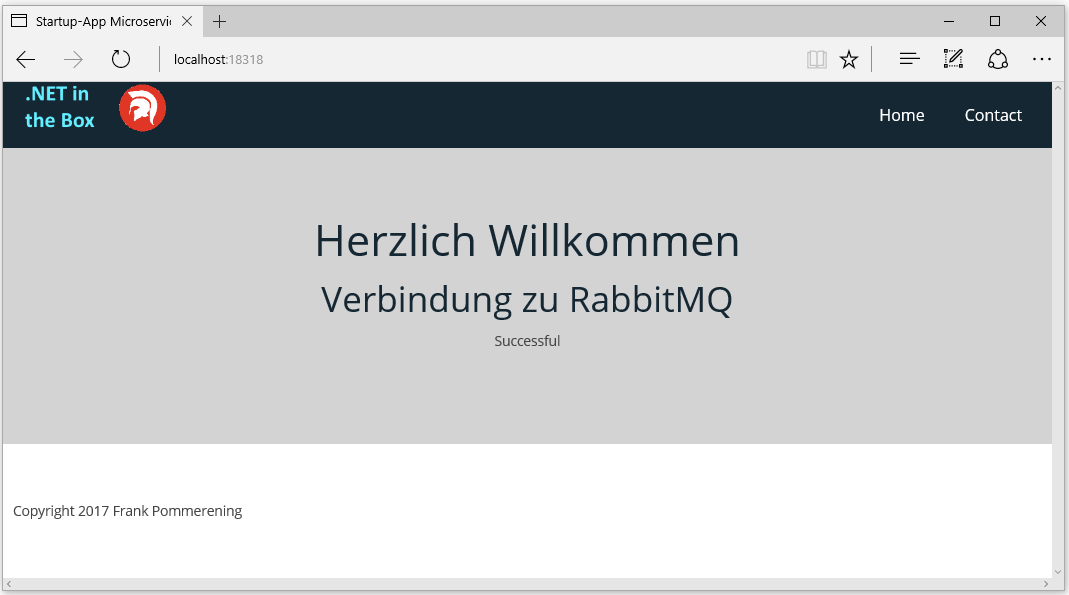
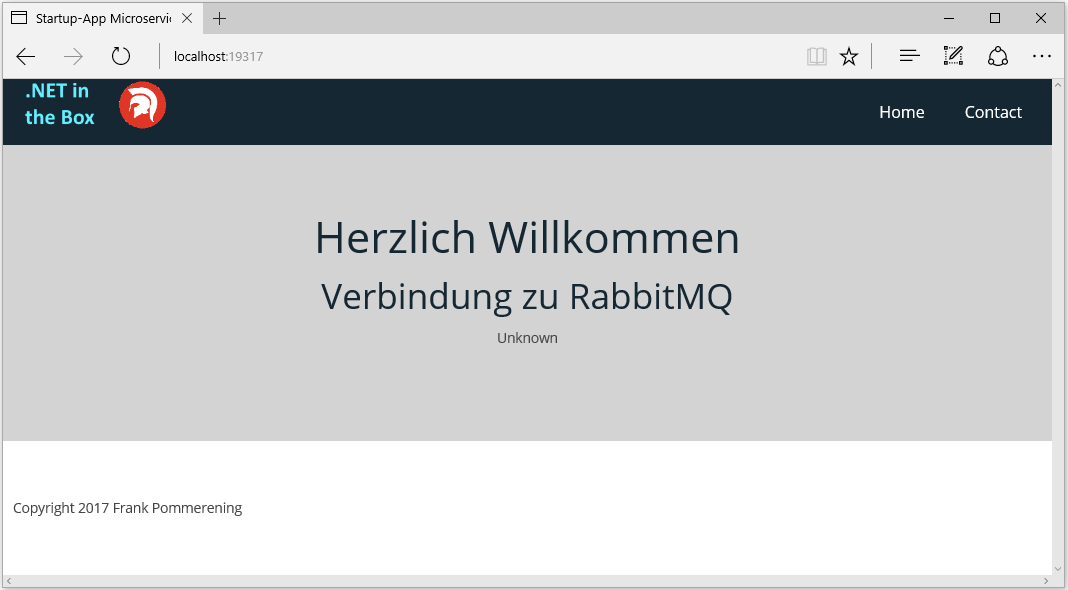
Fix url

diff --git a/StartupApp/Program.cs b/StartupApp/Program.cs
@@ -9,7 +9,7 @@ namespace StartupApp
     {
         static void Main(string[] args)
         {
-            using (var host = new NancyHost(new Uri("http://localhost:18318")))
+            using (var host = new NancyHost(new Uri("http://localhost:19317")))
             {
                 StaticConfiguration.DisableErrorTraces = false;
                 host.Start();

diff --git a/startupApp.md b/startupApp.md
@@ -23,7 +23,7 @@ Keine Sorge wenn du bei den folgenden Befehle nur Bahnhof verstehst. Im Workshop
 	
 	docker-compose up
 
-5) Webbrowser starten und die Seite <a href ="http://localhost:18318">http://localhost:18318</a> öffnen. 
+5) Webbrowser starten und die Seite <a href ="http://localhost:19317">http://localhost:19317</a> öffnen. 
 Wenn alles korrekt gestartet ist, siehst du folgende Seite.
 <img src="images/startupApp.png" alt="Screenshot Startup-App"/>
 
